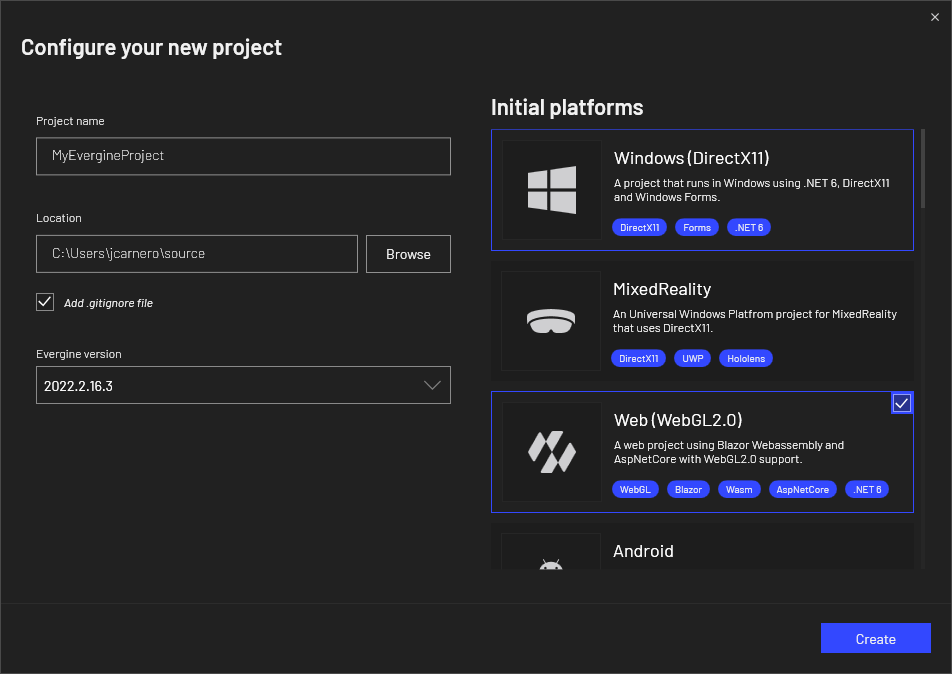
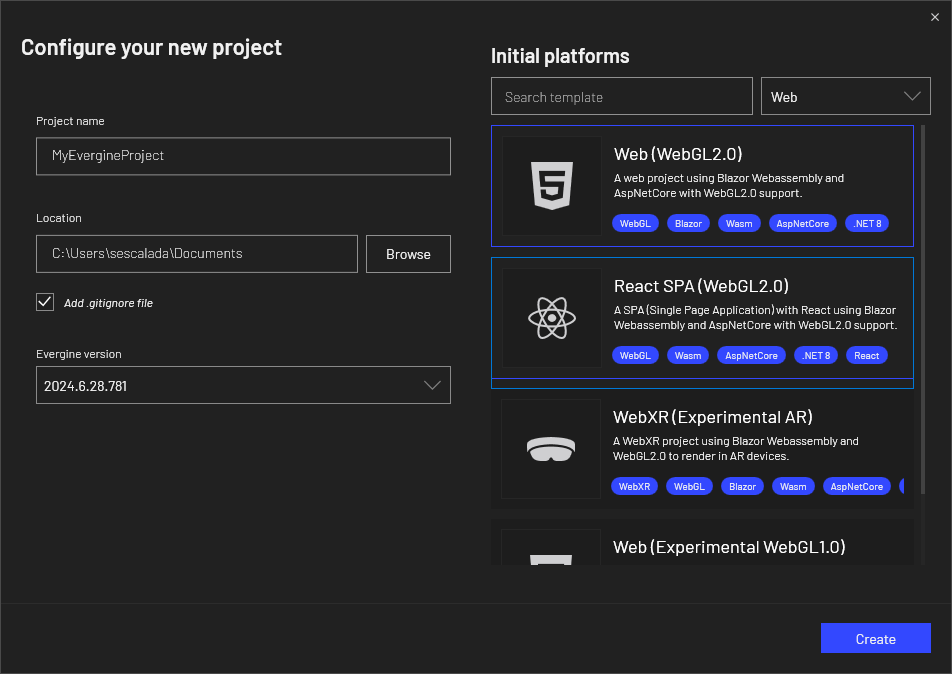
Updated web React docs

diff --git a/src/manual/platforms/web/getting_started.md b/src/manual/platforms/web/getting_started.md
@@ -8,6 +8,8 @@ From the Evergine launcher, you can create a Web (WebGL 2.0) project or add the 
 
 ![Create a new Web project](images/launcher.png)
 
+Evergine now offers two web templates: an HTML5 web template and a ReactJS web template. Both options are designed to execute Evergine in a web canvas, allowing for flexibility in your web development approach.
+
 This template adds two projects to the web solution: the _Web_ project, which is the web application client that uses TypeScript to execute Evergine in a web canvas, and an optional _Server_ project, which is an ASP server application that implements some optimizations for asset loading that can only be done from the server side.
 
 ![Web projects](images/explorer.png)
@@ -16,4 +18,217 @@ After editing your scene in Evergine Studio as usual, run the _Web.Server_ proje
 
 ![Robot sample](images/sample.png)
 
+For the ReactJS template, the web solution includes a different set of projects: the Host project (equivalent to the Server project in the HTML5 template), the WebReact project (similar to the Web project), and an additional react.spa project, which holds the code for the single-page application (SPA).
+
+![Web projects](images/explorer-react.png)
+
 Finally, check out [how to deploy the app](ops.md) and [improve its performance](tips.md).
+
+### ReactJS Web Template
+
+The ReactJS template for Evergine uses the **evergine-react** NPM package, which is registered on [npmjs.com/package/evergine-react](https://www.npmjs.com/package/evergine-react). This package contains a set of helper components designed to facilitate interaction with Evergine within a ReactJS single-page application (SPA).
+
+The main component provided by this package is the _EvergineCanvas_, which is used in the _App.tsx_ file. This component renders the HTML5 canvas where Evergine will be executed. Another important file is _evergine-initialize.ts_, which is responsible for managing communication between the SPA and Evergine via a WebAssembly (WASM) JavaScript bridge.
+
+The **evergine-react** package also includes a state store for Evergine, which holds two key values:
+
+- **webAssemblyLoaded**: Becomes **true** once WASM has been successfully loaded.
+- **evergineReady**: Becomes **true** once Evergine has initialized all necessary assets.
+
+It’s recommended to wait for both of these values to be **true** before initiating any custom communication between the SPA and Evergine. This helps prevent potential race conditions that could occur if communication is attempted too early.
+
+For example, following code snippet modifies the _App.tsx_ file to include a text message that will be displayed while Evergine is loading.
+
+```typescript
+import './App.css';
+import { useEvergineStore, EvergineCanvas } from "evergine-react";
+import { EVERGINE_CANVAS_ID } from "evergine/config";
+import { useWindowSize } from "evergine/useWindowSize";
+
+function App() {
+    const { webAssemblyLoaded, evergineReady } = useEvergineStore();
+
+    return (
+        <div className="App">
+            {(!webAssemblyLoaded || !evergineReady) && (<div>Loading Evergine...</div>)}
+            <EvergineCanvas
+                canvasId={EVERGINE_CANVAS_ID}
+                width={useWindowSize().width}
+                height={useWindowSize().height}
+            />
+        </div>
+    );
+}
+
+export default App;
+```
+
+When you build the SPA (react.spa) project, all required code and dependencies will be copied into the **public** folder. This folder contains the SPA code that embeds the Evergine canvas and can be deployed as a static website.
+
+![ReactJS public folder](images/reactjs_public-folder.png)
+
+
+### Invoking Functions Between SPA and Evergine
+
+In Evergine, communication between the single-page application (SPA) and the engine is facilitated through function invocations in both directions: from the SPA to Evergine and from Evergine to the SPA. This process enables dynamic interactions, such as triggering engine events from the UI or responding to engine updates in real-time.
+
+In the following steps, we will demonstrate how to set up these function invocations, starting with calls from the SPA to Evergine and then covering calls from Evergine back to the SPA. Each step is accompanied by code examples to illustrate the process.
+
+#### Step 1: Adding a Custom Scene Manager for Communication
+
+To handle communication between the SPA and Evergine, we first need to add a custom scene manager. This manager will serve as the central point for invoking functions from the SPA to Evergine and for receiving callbacks from Evergine back to the SPA.
+
+In this example, we will define a callback class that must be implemented in the WebReact project. In WebFacade class will include methods to handle two-way communication: sending messages from the SPA to Evergine and receiving messages back from Evergine to the SPA.
+
+The following code snippet demonstrates how to create the custom scene manager and the callback class:
+
+```csharp
+public class MySceneManager : SceneManager
+{
+    public EvergineCallbacks Callbacks { get; set; }
+
+    public void MessageToEvergine(string message)
+    {
+        Console.WriteLine(message);
+        _ = Task.Run(async () =>
+        {
+            await Task.Delay(2000);
+            this.Callbacks?.MessageFromEvergine("Hello from Evergine!");
+        });
+    }
+
+    public abstract class EvergineCallbacks
+    {
+        public abstract void MessageFromEvergine(string message);
+    }
+}
+```
+
+Once we've defined the custom scene manager, we need to register it within the _MyScene_.
+
+```csharp
+public class MyScene : Scene
+{
+    public override void RegisterManagers()
+    {
+        base.RegisterManagers();
+        
+        this.Managers.AddManager(new global::Evergine.Bullet.BulletPhysicManager3D());
+        this.Managers.AddManager(new MySceneManager());
+    }
+
+    protected override void CreateScene()
+    {
+    }
+}
+```
+
+#### Step 2: Extend _WebFacade_ in web project
+
+Next, we’ll extend the WebFacade to add new communication methods that can invoke functions between the SPA and Evergine. This is where we define how the SPA will communicate with the scene manager and vice versa.
+
+_WebFacade.cs_
+
+```csharp
+public static class WebFacade
+{        
+    private const string BaseInvokeClassName = "Sample.WebReact.WebFacade";
+
+    private static MySceneManager sceneManager;
+
+    public static MySceneManager SceneManager
+    {
+        get => sceneManager;
+        set
+        {
+            sceneManager = value;
+            sceneManager.Callbacks = new WebCallbacks();
+        }
+    }
+
+    // ...
+    [JSInvokable($"{BaseInvokeClassName}:MessageToEvergine")]
+    public static void MessageToEvergine(string message) => SceneManager?.MessageToEvergine(message);
+
+    private class WebCallbacks : EvergineCallbacks
+    {
+        public override void MessageFromEvergine(string message)
+        {
+            Program.Wasm.Invoke("App.appEventsListener.onMessageFromEvergine", args: message);
+        }
+    }
+}
+```
+
+_Program.cs_
+```csharp
+private static void ScreenContextManager_OnActivatingScene(Scene scene)
+{
+    var sceneManager = scene.Managers.FindManager<MySceneManager>();
+    WebFacade.SceneManager = sceneManager;
+
+    Wasm.Invoke("App.appEventsListener.onEvergineReady", false, true);
+}
+
+private static void ScreenContextManager_OnDesactivatingScene(Scene scene)
+{
+    WebFacade.SceneManager = null;
+    Wasm.Invoke("App.appEventsListener.onEvergineReady", false, false);
+}
+```
+
+#### Step 3: Adding Invokes and Callbacks in _evergine-initialize.ts_
+
+To complete the communication setup between the SPA and Evergine, we will modify the _evergine-initialize.ts_ file. In this step, we’ll extend the AppEventsListener to handle invokes coming from Evergine, and we’ll extend WebEventsProxy to define methods that the SPA can use to send messages to Evergine.
+
+```typescript
+import { initializeEvergineBase } from "evergine-react";
+
+import {
+  EVERGINE_ASSEMBLY_NAME,
+  EVERGINE_CLASS_NAME,
+  EVERGINE_LOADING_BAR_ID,
+} from "evergine/config";
+
+declare global {
+  let Blazor: { start(): Promise<void> };  
+
+  interface AppEventsListener {
+    onMessageFromEvergine: (message: string) => void
+  }
+  interface WebEventsProxy {
+    sendMessageToEvergine: (message: string) => void;
+  }
+}
+
+function addCustomEvents() {
+    window.App.appEventsListener.onMessageFromEvergine = (message: string): void =>
+        console.log(message);
+    window.App.webEventsProxy.sendMessageToEvergine = (message: string): void =>
+        window.Utils.invoke("MessageToEvergine", message);
+}
+
+const initializeEvergine = (): void => {
+  initializeEvergineBase(
+    EVERGINE_LOADING_BAR_ID,
+    EVERGINE_ASSEMBLY_NAME,
+    EVERGINE_CLASS_NAME,
+    addCustomEvents
+  );
+};
+
+export { initializeEvergine };
+```
+
+With this setup in place, you can test the communication by invoking the method directly from the browser’s development console. For example, to send a message from the SPA to Evergine, you can call the following in the console:
+
+```javascript
+App.webEventsProxy.sendMessageToEvergine("Hello from SPA!")
+```
+This will trigger the sendMessageToEvergine method. After two seconds, a message saying "Hello from Evergine!" will be sent back to the SPA and displayed in the console.
+
+```
+Hello from Evergine!
+```
+
+This is only one possible approach to setting up communication between the SPA and Evergine. You are free to define your own method for handling this interaction based on your specific requirements.
